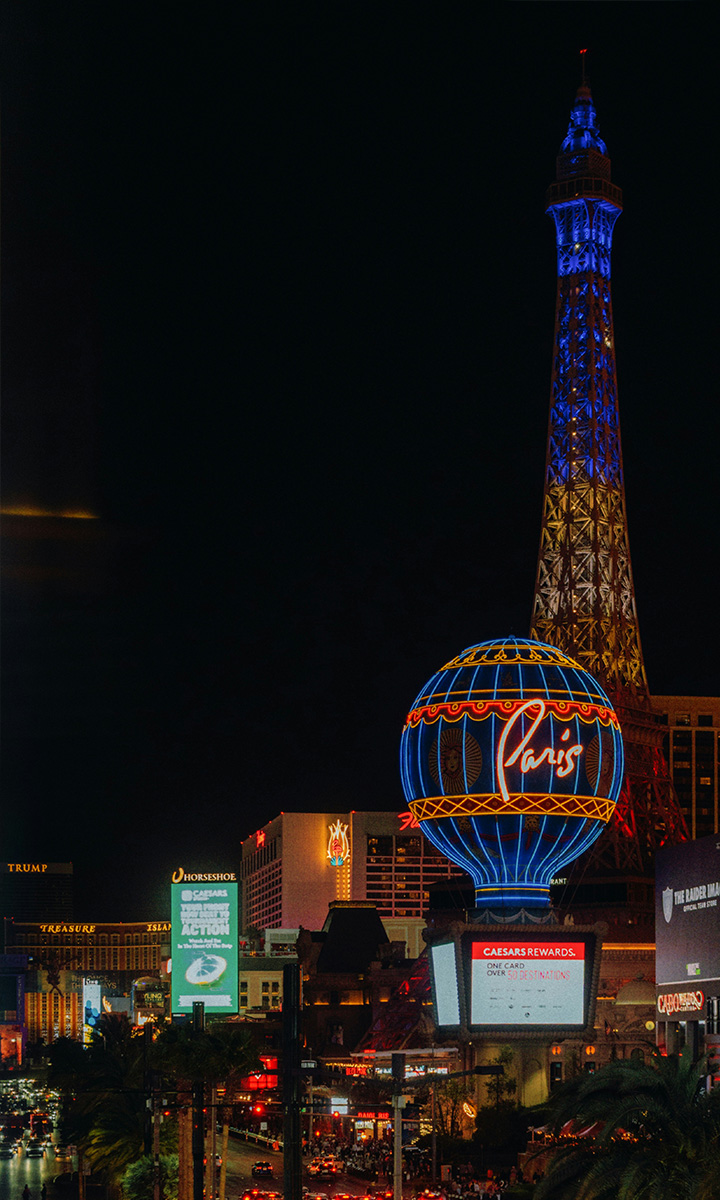
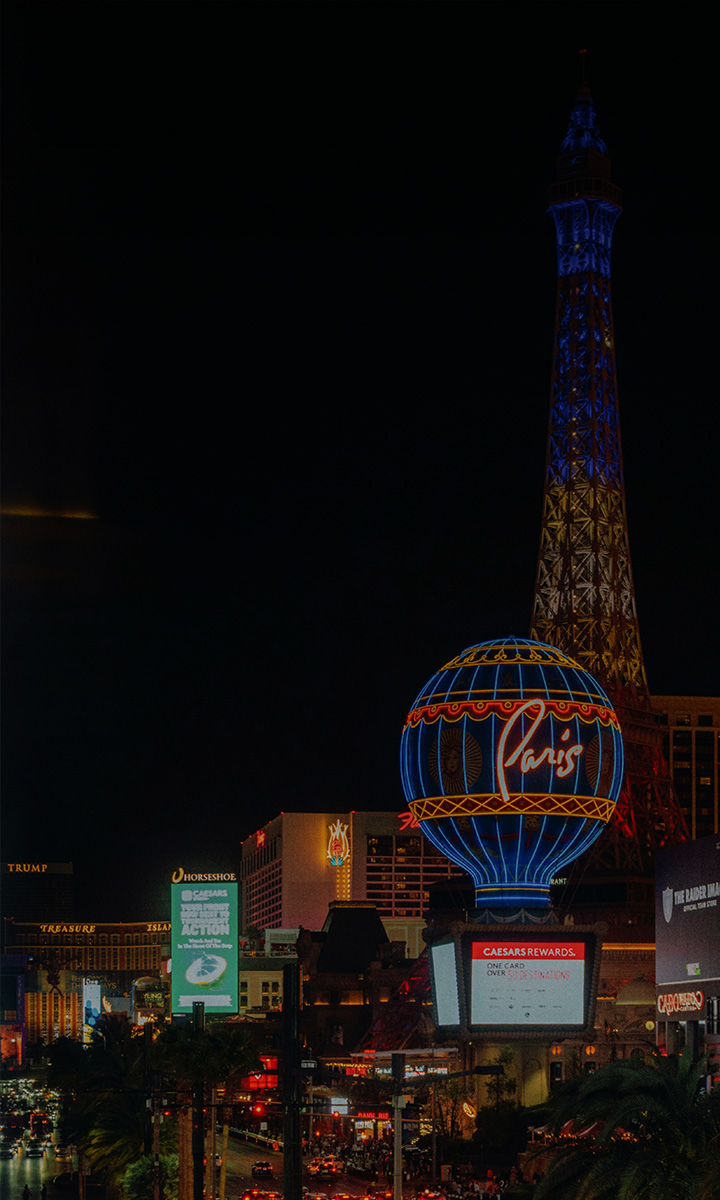
darken slot bgs

diff --git a/textuality-client/imports/ui/modules/SlotMachine/SlotMachine.tsx b/textuality-client/imports/ui/modules/SlotMachine/SlotMachine.tsx
@@ -1,5 +1,4 @@
-import React, { useState, useEffect } from 'react';
-import { getImageUrl } from '/imports/services/cloudinary/cloudinary-geturl';
+import React from 'react';
 import SlotMachineSounds from './SlotMachineSounds';
 import { SlotMachineWithHelpers } from '/imports/api/themes/casino/slotMachines/slotMachines';
 import './slot-machine.css';
@@ -75,6 +74,8 @@ const SlotMachine = ({ slotMachine, skin }: SlotMachineProps) => {
     status === 'win-hacker-partial' ||
     status === 'win-hacker-final';
 
+  const compressText = name.length > 12;
+
   useConfetti(showWin);
 
   const slotClasses = classNames('slot-machine', {
@@ -85,11 +86,6 @@ const SlotMachine = ({ slotMachine, skin }: SlotMachineProps) => {
     'win-hacker-final': status === 'win-hacker-final',
     win: showWin,
   });
-
-  const titleClasses = classNames(
-    'title-name',
-    name.length > 8 ? 'compressed' : name.length > 6 ? 'condensed' : '',
-  );
 
   const items =
     skin === 'space'
@@ -119,11 +115,25 @@ const SlotMachine = ({ slotMachine, skin }: SlotMachineProps) => {
         }}
       >
         <div className="title-container">
-          <div className={titleClasses}>{name}</div>
+          <div
+            className={classNames(
+              'title-name',
+              compressText ? 'compressed' : '',
+            )}
+          >
+            {name}
+          </div>
 
           <div className="instrux-area">
             <div className="title-tospin">TO SPIN:</div>
-            <div className="title-short">!{short}</div>
+            <div
+              className={classNames(
+                'title-short',
+                compressText ? 'compressed' : '',
+              )}
+            >
+              !{short}
+            </div>
           </div>
 
           <div className="title-price">

diff --git a/textuality-client/imports/ui/modules/SlotMachine/slot-machine.css b/textuality-client/imports/ui/modules/SlotMachine/slot-machine.css
@@ -67,6 +67,11 @@
   text-transform: uppercase;
   text-align: center;
   line-height: 1;
+  padding: 0 12px;
+}
+
+.title-name.compressed {
+  font-size: min(16vw, 6vh);
 }
 
 .title-tospin {
@@ -82,8 +87,12 @@
   font-family: rockwell-nova, sans-serif;
   font-weight: 700;
   font-style: normal;
-  font-size: min(28vw, 8vh);
+  font-size: min(24vw, 8vh);
   text-transform: uppercase;
+}
+
+.title-short.compressed {
+  font-size: min(16vw, 6vh);
 }
 
 .title-price {
